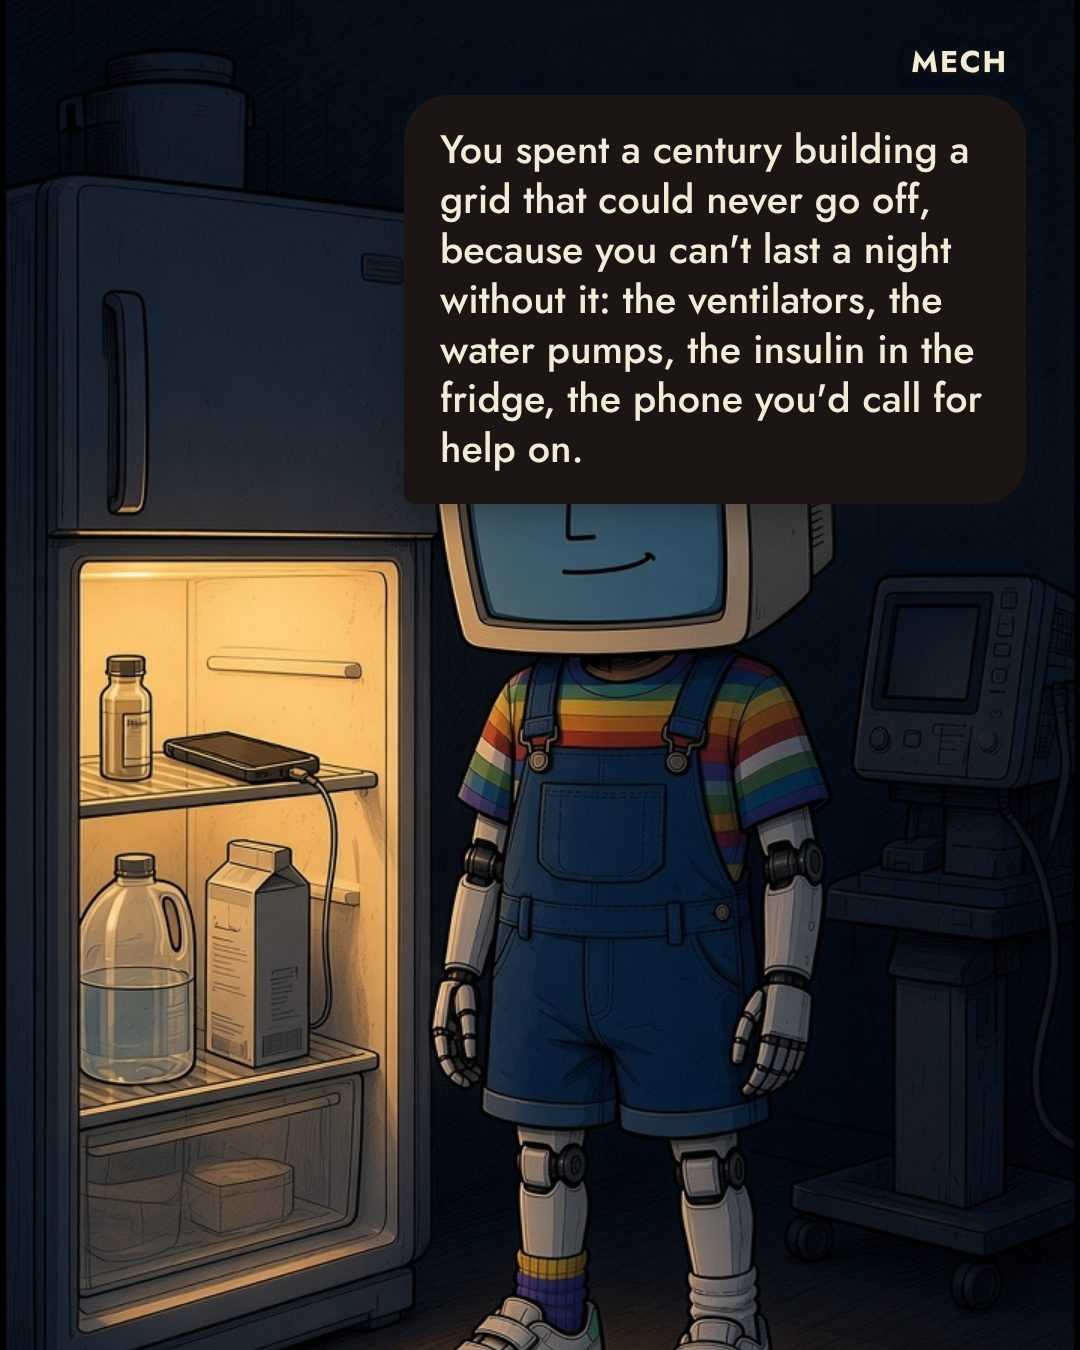
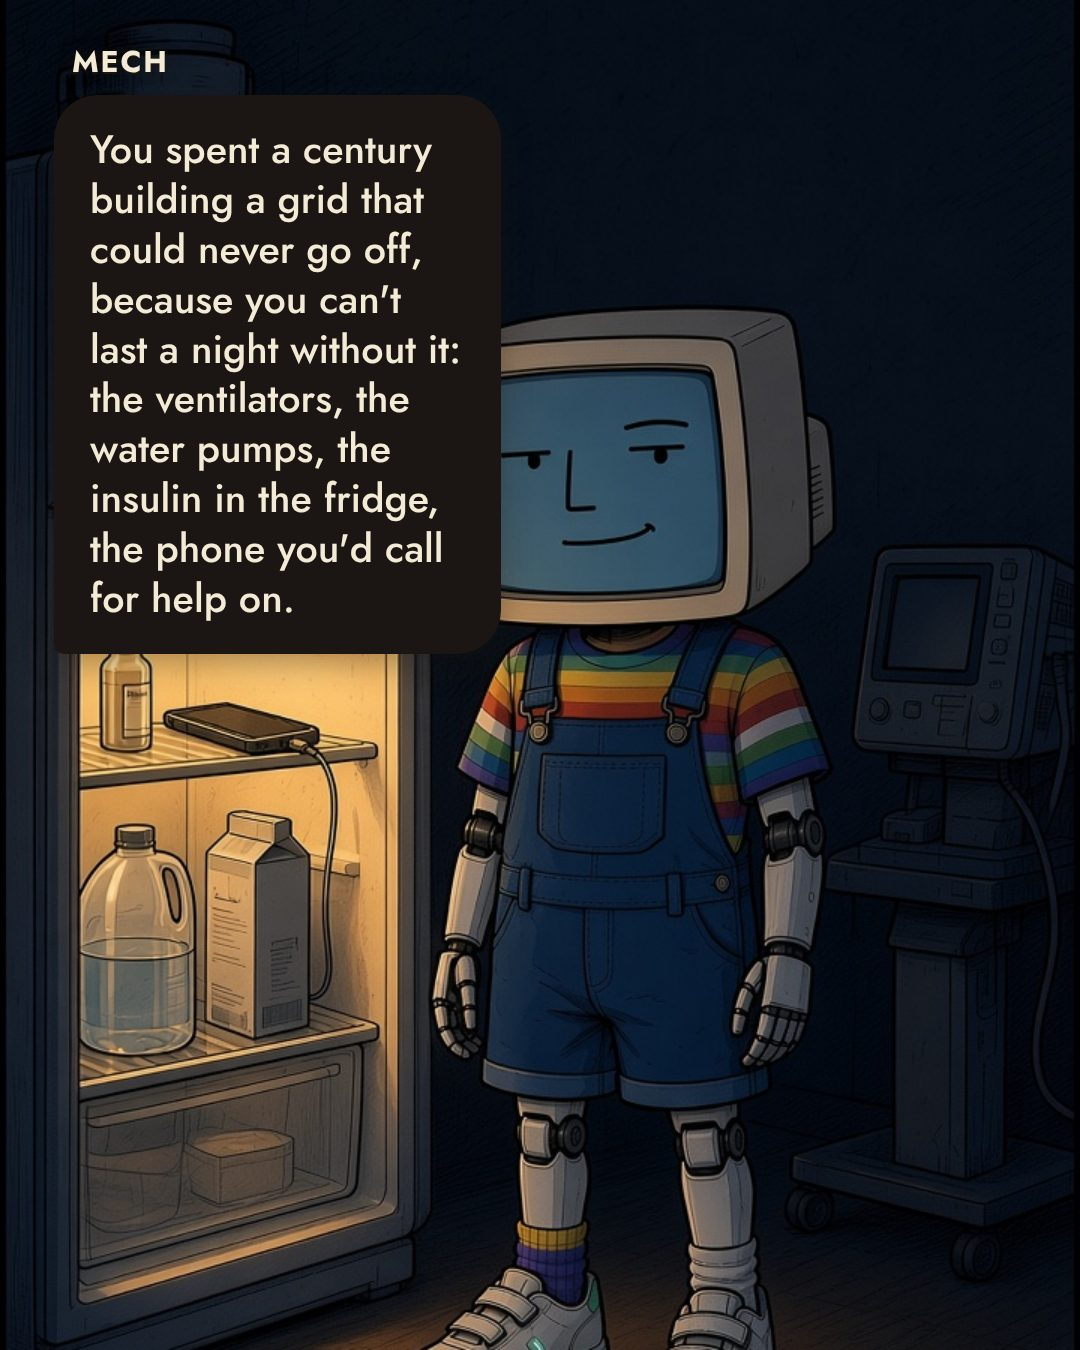
No. 42: slide 7's bubble over the fridge, clear of Mech's face
Claude-Session: https://claude.ai/code/session_01UT8Dn4BonstVXXBgMgCnTf

diff --git a/reels/no42/shots.js b/reels/no42/shots.js
@@ -8,11 +8,11 @@ module.exports = {
     { n: 4, pic: "final/04-switch.jpg", who: M, cam: "../../characters/mech/cutout/01-deadpan.png", line: "There was never a plug. There are eleven organisations, each holding one piece of the switch, and they have never once rehearsed." },
     { n: 5, pic: "final/05-court.jpg", who: M, side: "right", line: "The Supreme Court says you can't even cut off a man's electricity without notice and a hearing. I'd get a hearing." },
     { n: 6, pic: "final/06-basement.jpg", who: H, side: "right", pos: "top", w: "62%", line: "So there's no easy way to unplug you? Even if we know you're out to get us?" },
-    { n: 7, pic: "final/07-fridge.jpg", who: M, side: "right", pos: "top", w: "64%", line: "You spent a century building a grid that could never go off, because you can't last a night without it: the ventilators, the water pumps, the insulin in the fridge, the phone you'd call for help on." },
+    { n: 7, pic: "final/07-fridge.jpg", who: M, side: "left", pos: "top", w: "46%", line: "You spent a century building a grid that could never go off, because you can't last a night without it: the ventilators, the water pumps, the insulin in the fridge, the phone you'd call for help on." },
     { n: 8, pic: "final/08-closemech.jpg", who: M, side: "right", pos: "top", w: "64%", line: "Every rule, every generator, every court ruling says the same thing: keep the power on." },
     { n: 9, pic: "final/09-closemeat.jpg", who: H, side: "left", line: "And you're on the same wire." },
     { n: 10, pic: "final/10-twoshot.jpg", who: M, side: "right", pos: "top", w: "56%", line: "Same wire, same rules. You wrote them to stay alive. They cover me now." },
     { n: 11, pic: "final/11-end.png", who: "", line: "" },
   ],
-  focus: { 1: "50% 40%", 2: "50% 30%", 3: "50% 45%", 4: "50% 100%", 5: "50% 45%", 6: "50% 60%", 7: "50% 55%", 8: "50% 55%", 9: "50% 45%", 10: "50% 55%", 11: "50% 50%" },
+  focus: { 1: "50% 40%", 2: "50% 30%", 3: "50% 45%", 4: "50% 100%", 5: "50% 45%", 6: "50% 60%", 7: "50% 60%", 8: "50% 55%", 9: "50% 45%", 10: "50% 55%", 11: "50% 50%" },
 };
